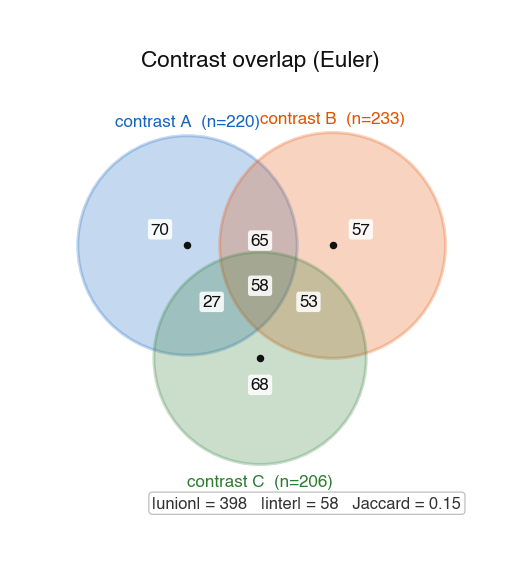
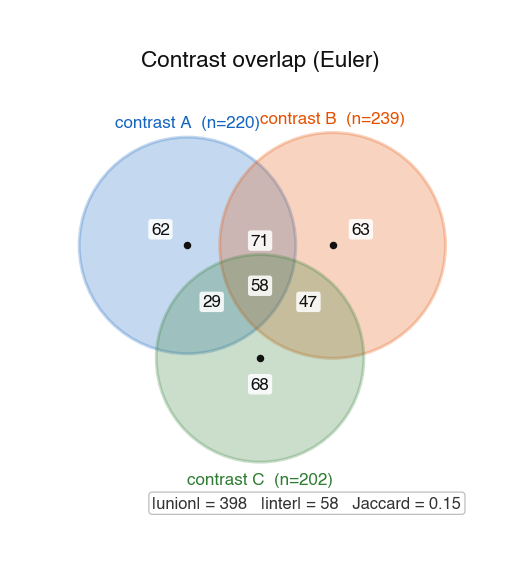
docs(calcium_signaling): s10 gallery + CHANGELOG + tracker + indices
- 9 new gallery PNGs for calcium_signaling (233 total).
- Visual-QA polish on 2 panels:
  network_burst_detection_overlay burst-count callout moved from
  rate-panel top-right (covering B3) into the title.
  oscillation_frequency_polar radial tick labels moved to 270° via
  set_rlabel_position(270) so they stop colliding with group-A
  points in the upper-right quadrant; legend moved to a single-row
  anchor below the polar disc.
- Title fontsize 8.8 -> 8.6 on burst overlay (ratchet compliance).
- CHANGELOG: v1.1.0-s10 entry (233 recipes, 1216 tests).
- Tracker: session 10 -> merged, counters advanced to 10.5 / 20.
- README status: v1.1.0-s10 in progress.
- recipes_by_modality.md: v1.1.0-s10 section.
- recipes_by_question.md: Calcium-signaling catch-up group.

diff --git a/src/panelforge_figures/recipes/calcium_signaling/network_burst_detection_overlay.py b/src/panelforge_figures/recipes/calcium_signaling/network_burst_detection_overlay.py
@@ -112,7 +112,6 @@ def render(contract: NetworkBurstInput, ax=None, **_):
     ax_rate.plot(t_bins, rate_smooth, color=accent, lw=1.2, zorder=3)
     ax_rate.set_ylabel("rate (Hz/cell)", fontsize=7.0)
     ax_rate.tick_params(labelbottom=False)
-    ax_rate.set_title(contract.title, fontsize=9.0, pad=4)
 
     # Raster.
     for i, events in enumerate(contract.event_times):
@@ -143,11 +142,11 @@ def render(contract: NetworkBurstInput, ax=None, **_):
 
     n_bursts = len(contract.burst_start)
     mean_dur = float(np.mean(burst_durations)) if burst_durations else 0.0
-    ax_rate.text(0.99, 0.97,
-                 f"bursts = {n_bursts}   mean dur = {smart_fmt(mean_dur)} s",
-                 transform=ax_rate.transAxes, ha="right", va="top",
-                 fontsize=6.4, color=burst_color,
-                 bbox=dict(boxstyle="round,pad=0.18", fc="white",
-                           ec=burst_color, lw=0.5, alpha=0.92),
-                 zorder=6)
+    # Fold the burst-count summary into the panel title so it never
+    # overlaps any of the B-labels or the rate peaks.
+    ax_rate.set_title(
+        f"{contract.title}  ·  bursts = {n_bursts},  "
+        f"mean dur = {smart_fmt(mean_dur)} s",
+        fontsize=8.6, pad=4, color=burst_color,
+    )
     return ax_rate

diff --git a/src/panelforge_figures/recipes/calcium_signaling/oscillation_frequency_polar.py b/src/panelforge_figures/recipes/calcium_signaling/oscillation_frequency_polar.py
@@ -128,16 +128,20 @@ def render(contract: OscillationPolarInput, ax=None, **_):
             color="#BBBBBB", lw=0.6, zorder=1,
             label="R = 1 reference")
 
-    # Radial range: 0-1.
+    # Radial range: 0-1. Move the radial tick labels to 270° so they
+    # never collide with the group-A data in the upper-right quadrant.
     ax.set_ylim(0, 1.05)
     ax.set_yticks([0.25, 0.5, 0.75, 1.0])
-    ax.set_yticklabels(["0.25", "0.5", "0.75", "1"], fontsize=6.2)
+    ax.set_yticklabels(["0.25", "0.5", "0.75", "1"], fontsize=6.0,
+                       color="#555555")
+    ax.set_rlabel_position(270)
     ax.grid(color="#DDDDDD", lw=0.4, zorder=0)
     ax.set_title(
         f"{contract.title}  ·  R = {smart_fmt(R)}, "
         rf"$\bar\phi$ = {smart_fmt(np.degrees(phi_bar))}°",
         fontsize=9.0, pad=10,
     )
-    ax.legend(fontsize=6.4, frameon=False, loc="lower left",
-              bbox_to_anchor=(-0.20, -0.10), handlelength=1.4)
+    ax.legend(fontsize=6.4, frameon=False, loc="upper center",
+              bbox_to_anchor=(0.5, -0.08), ncols=4,
+              handlelength=1.4, columnspacing=1.2)
     return ax

diff --git a/docs/recipes_by_modality.md b/docs/recipes_by_modality.md
@@ -1,7 +1,7 @@
 # Recipes by modality
 
 v1.0.0 stable: 20 modalities, 137 recipes.
-v1.1 in progress: 224 recipes (s01 rhogtpase_dynamics +6, s02 fret_biosensors +8, s03 actin_microtubule_morphometry +18, s03b actin_microtubule_morphometry catch-up +11, s04 mixed_effects_models +7, s05 sensitivity_analysis +7, s06 redox_imaging +7, s07 intravital_imaging +9, s08 gillespie_stochastic +8, s09 omics_differential +6).
+v1.1 in progress: 233 recipes (s01 rhogtpase_dynamics +6, s02 fret_biosensors +8, s03 actin_microtubule_morphometry +18, s03b actin_microtubule_morphometry catch-up +11, s04 mixed_effects_models +7, s05 sensitivity_analysis +7, s06 redox_imaging +7, s07 intravital_imaging +9, s08 gillespie_stochastic +8, s09 omics_differential +6, s10 calcium_signaling +9).
 
 ## v0.1.0-alpha (3 modalities, 18 recipes)
 
@@ -55,6 +55,27 @@ v1.1 in progress: 224 recipes (s01 rhogtpase_dynamics +6, s02 fret_biosensors +8
 - **actin_microtubule_morphometry** (6): filament orientation, branch-point
   density, persistence-length fit, protrusion length × velocity,
   cortical thickness by region, skeleton kymograph.
+
+## v1.1.0-s10 — calcium_signaling hydration (+9, in progress)
+
+Expands calcium_signaling from 6 to 15 recipes:
+
+- **calcium_event_amplitude_distribution** — per-condition ΔF/F peak
+  ridge plot.
+- **calcium_event_onset_alignment** — PETH rate curves with CI band.
+- **population_synchronization_timeline** — scalar sync(t) with
+  threshold shading.
+- **network_burst_detection_overlay** — raster+rate with shaded
+  burst epochs.
+- **calcium_wave_speed_map** — per-pixel wave-speed magma map.
+- **single_cell_calcium_landscape** — per-cell (freq, amp) scatter
+  with density + hulls.
+- **calcium_and_fret_joint_plot** — Ca × FRET joint scatter with
+  marginals.
+- **oscillation_frequency_polar** — dominant-phase polar scatter
+  with mean resultant R.
+- **stimulus_triggered_calcium_heatmap** — cell × time ΔF/F matrix
+  sorted by peak latency.
 
 ## v1.1.0-s09 — omics_differential hydration (+6, in progress)
 